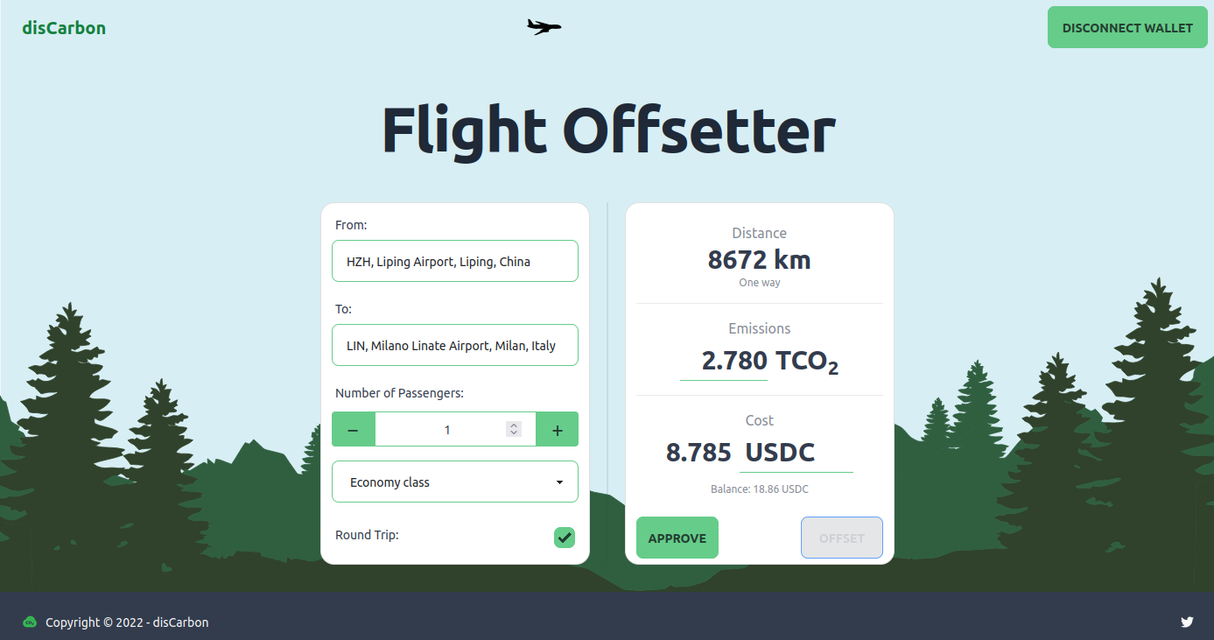
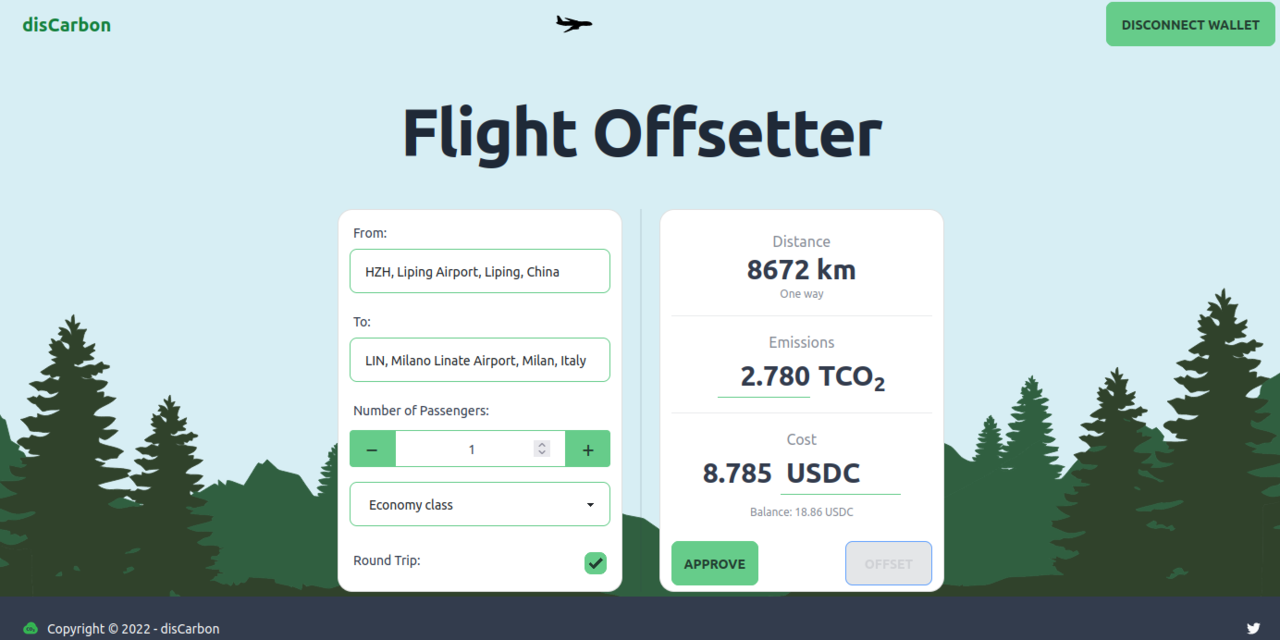
fix: make preview image 1280x640; modify description

diff --git a/index.html b/index.html
@@ -7,14 +7,14 @@
 
   <meta name="viewport" content="width=device-width, initial-scale=1.0">
 
-  <meta name="description" content="disCarbon flight offsetter: simple carbon neutral flights on crypto rails" />
+  <meta name="description" content="simple carbon neutral flights on crypto rails" />
   <meta name="author" content="disCarbon" />
   <meta property="og:title" content="disCarbon flight offsetter" />
-  <meta property="og:description" content="disCarbon flight offsetter: simple carbon neutral flights on crypto rails" />
+  <meta property="og:description" content="simple carbon neutral flights on crypto rails" />
   <meta property="og:image" name="image" content="https://flight.discarbon.earth/images/disCarbonFlightPreviewImage.png" />
   <meta name="twitter:card" content="summary_large_image" />
   <meta name="twitter:title" content="disCarbon flight offsetter" />
-  <meta name="twitter:description" content="disCarbon flight offsetter: simple carbon neutral flights on crypto rails" />
+  <meta name="twitter:description" content="simple carbon neutral flights on crypto rails" />
   <meta name="twitter:site" content="@discarbon_earth" />
   <meta name="twitter:creator" content="@discarbon_earth" />
   <meta name="twitter:image:src" content="https://flight.discarbon.earth/images/disCarbonFlightPreviewImage.png" />
